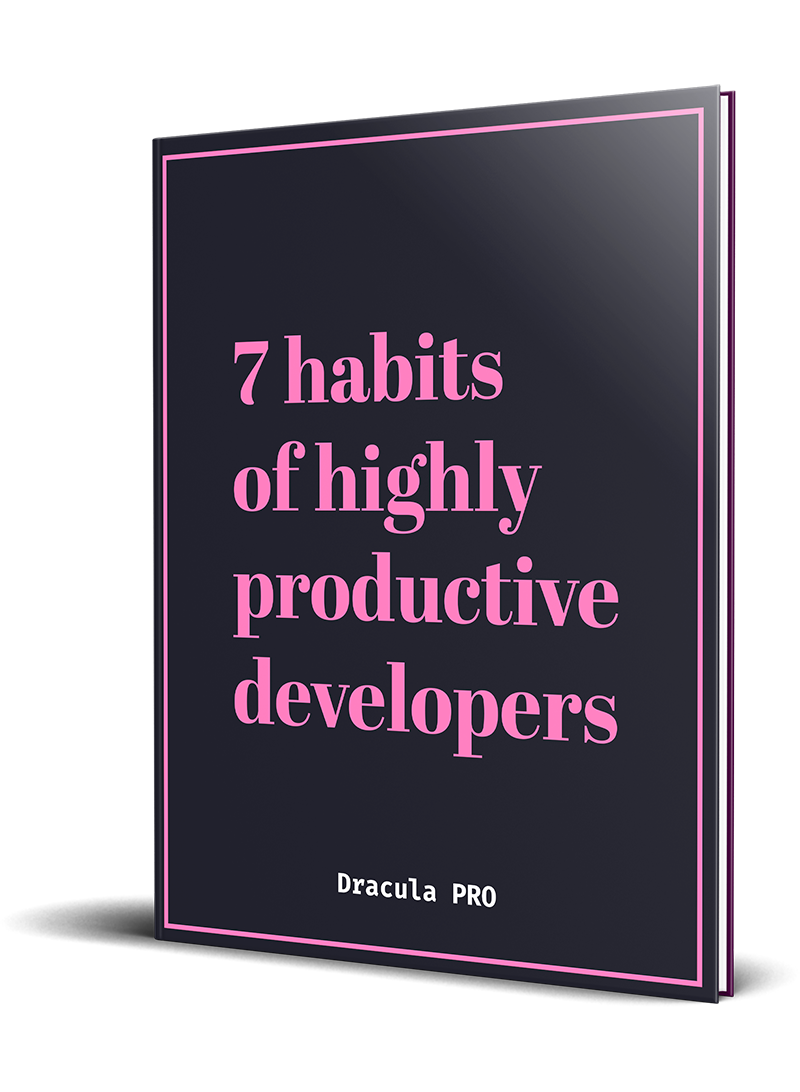
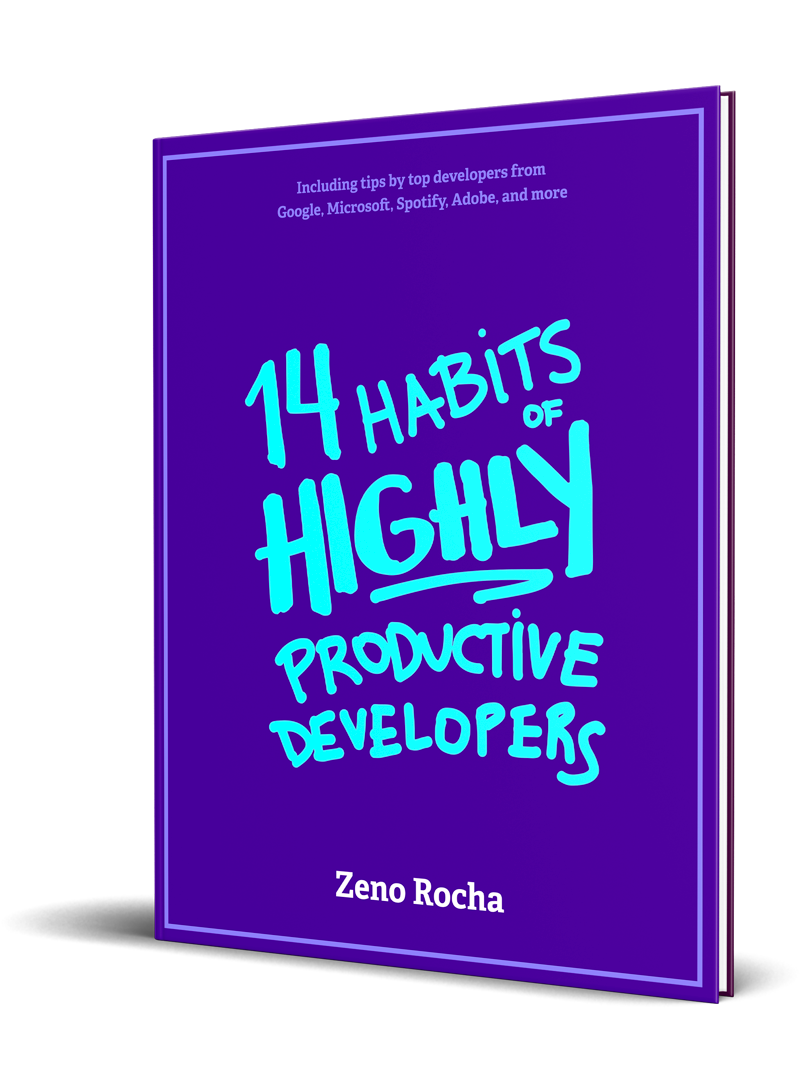
Add e-book notice

diff --git a/components/pro/Ebook.js b/components/pro/Ebook.js
@@ -9,12 +9,13 @@ class Ebook extends Component {
           <img className={styles.image} src="/static/img/pro/ebook.png" alt="E-Book" loading="lazy" />
         </div>
         <div className={styles.contentRight}>
-          <svg fill="#9f70a9" width="48" height="48" xmlns="http://www.w3.org/2000/svg" viewBox="0 0 512 512"><title>ionicons-v5-glasses</title><path d="M464,184H453.1a78.72,78.72,0,0,0-16-7.18C419.5,171,396.26,168,368,168s-51.5,3-69.06,8.82c-14.06,4.69-20.25,9.86-22.25,11.87h0a47.94,47.94,0,0,0-41.36,0h0c-2-2-8.19-7.18-22.25-11.87C195.5,171,172.26,168,144,168s-51.5,3-69.06,8.82a78.72,78.72,0,0,0-16,7.18H48a16,16,0,0,0,0,32h.17c1,45.46,6.44,72.78,18.11,92.23a66.78,66.78,0,0,0,31.92,28c12.23,5.24,27.22,7.79,45.8,7.79,24.15,0,58.48-3.71,77.72-35.77,9.68-16.14,15.09-37.69,17.21-70.52A16,16,0,0,0,240,232a16,16,0,0,1,32,0,16,16,0,0,0,1.07,5.71c2.12,32.83,7.53,54.38,17.21,70.52a66.78,66.78,0,0,0,31.92,28c12.23,5.24,27.22,7.79,45.8,7.79,24.15,0,58.48-3.71,77.72-35.77,11.67-19.45,17.13-46.77,18.11-92.23H464a16,16,0,0,0,0-32Z"/></svg>
+          <svg fill="#92ffff" width="48" height="48" xmlns="http://www.w3.org/2000/svg" viewBox="0 0 512 512"><title>ionicons-v5-glasses</title><path d="M464,184H453.1a78.72,78.72,0,0,0-16-7.18C419.5,171,396.26,168,368,168s-51.5,3-69.06,8.82c-14.06,4.69-20.25,9.86-22.25,11.87h0a47.94,47.94,0,0,0-41.36,0h0c-2-2-8.19-7.18-22.25-11.87C195.5,171,172.26,168,144,168s-51.5,3-69.06,8.82a78.72,78.72,0,0,0-16,7.18H48a16,16,0,0,0,0,32h.17c1,45.46,6.44,72.78,18.11,92.23a66.78,66.78,0,0,0,31.92,28c12.23,5.24,27.22,7.79,45.8,7.79,24.15,0,58.48-3.71,77.72-35.77,9.68-16.14,15.09-37.69,17.21-70.52A16,16,0,0,0,240,232a16,16,0,0,1,32,0,16,16,0,0,0,1.07,5.71c2.12,32.83,7.53,54.38,17.21,70.52a66.78,66.78,0,0,0,31.92,28c12.23,5.24,27.22,7.79,45.8,7.79,24.15,0,58.48-3.71,77.72-35.77,11.67-19.45,17.13-46.77,18.11-92.23H464a16,16,0,0,0,0-32Z"/></svg>
           <h3 className={styles.title}>More than a Theme</h3>
           <p className={styles.body}>You can have the best theme, font, and tooling in the world, but if you cultivate bad habits, it will be hard for you to <span className={styles.highlight}>become a top developer</span>.</p>
           <p className={styles.body}>Because of that, I decided to reach out to the best developers I know and ask them tips on <span className={styles.highlight}>how to be more productive</span>.</p>
           <p className={styles.body}>This e-book will be a collection of valuable learnings from senior professionals.</p>
-          <p className={styles.body}><span className={styles.highlight}>/* Available in Q2 2020 */</span></p>
+          <p className={styles.body}><span className={styles.highlight}>/* Available in July 14, 2020 */</span></p>
+          <a href="https://14habits.com" target="_blank" className={styles.cta}>Learn more</a>
         </div>
       </div>
     </div>

diff --git a/components/pro/Ebook.module.css b/components/pro/Ebook.module.css
@@ -1,9 +1,9 @@
 .ebook {
-  background: #2A212C;
+  background: #2a2c37;
 }
 
 .ebook ::selection {
-  background: #FF80BF;
+  background: #92ffff;
   color: #000;
 }
 
@@ -27,7 +27,7 @@
 }
 
 .title {
-  color: #FF80BF;
+  color: #92ffff;
   font-size: 48px;
   font-weight: 700;
   margin: 10px 0 30px;
@@ -40,7 +40,7 @@
 }
 
 .highlight {
-  color: #FF80BF;
+  color: #92ffff;
 }
 
 .image {
@@ -48,6 +48,23 @@
   margin: 0 auto;
   width: 400px;
   max-width: 100%;
+}
+
+.cta {
+  transition: all .3s ease-in-out;
+  margin-right: 20px;
+  display: inline-block;
+  background: #92ffff;
+  text-align: center;
+  color: #2a2c37;
+  padding: 8px 16px;
+  font-size: 16px;
+}
+
+.cta:hover,
+.cta:focus {
+  box-shadow: 0 0.5em 0.5em -0.4em #92ffff;
+  transform: translateY(-0.25em);
 }
 
 @media (max-width: 768px) {
